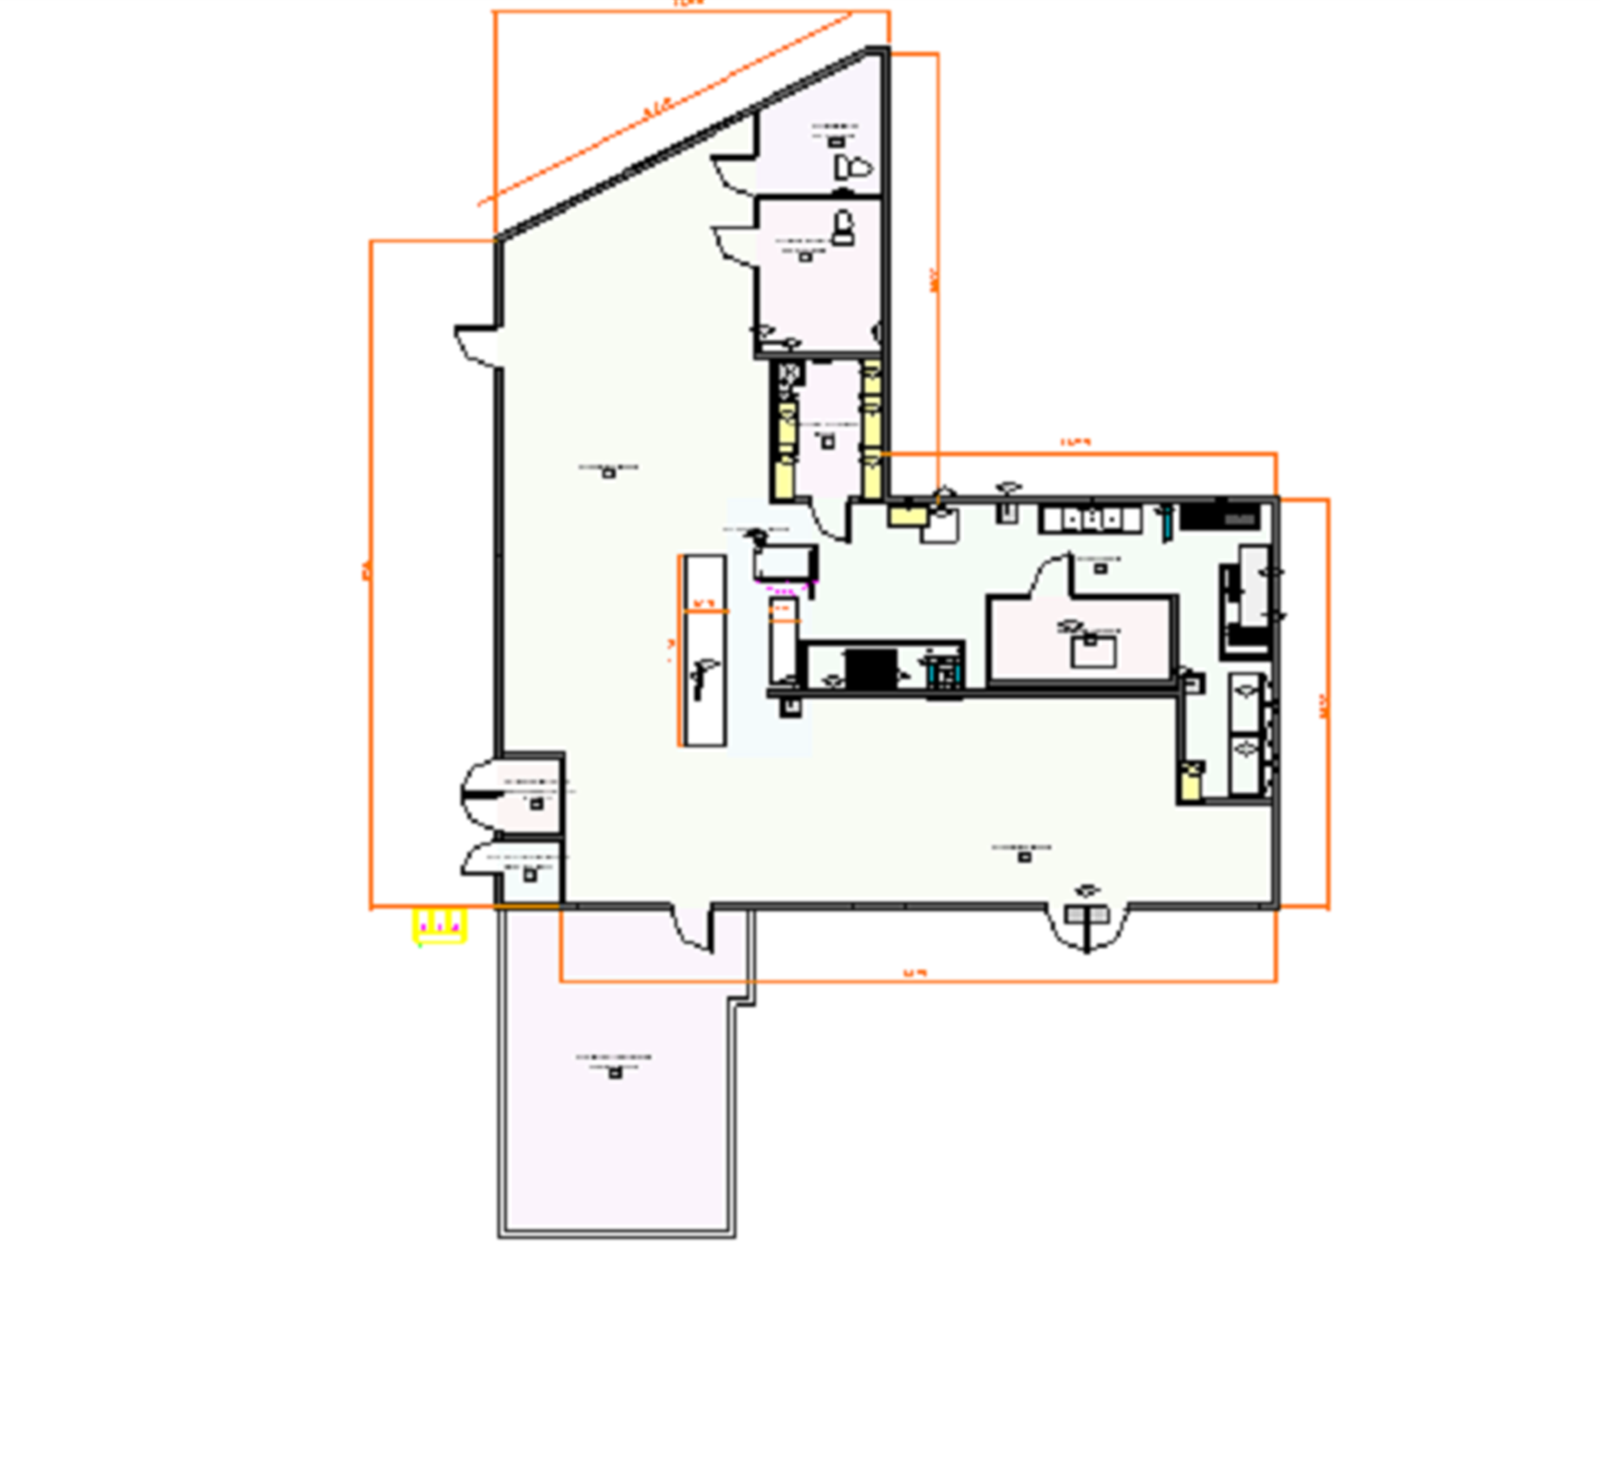
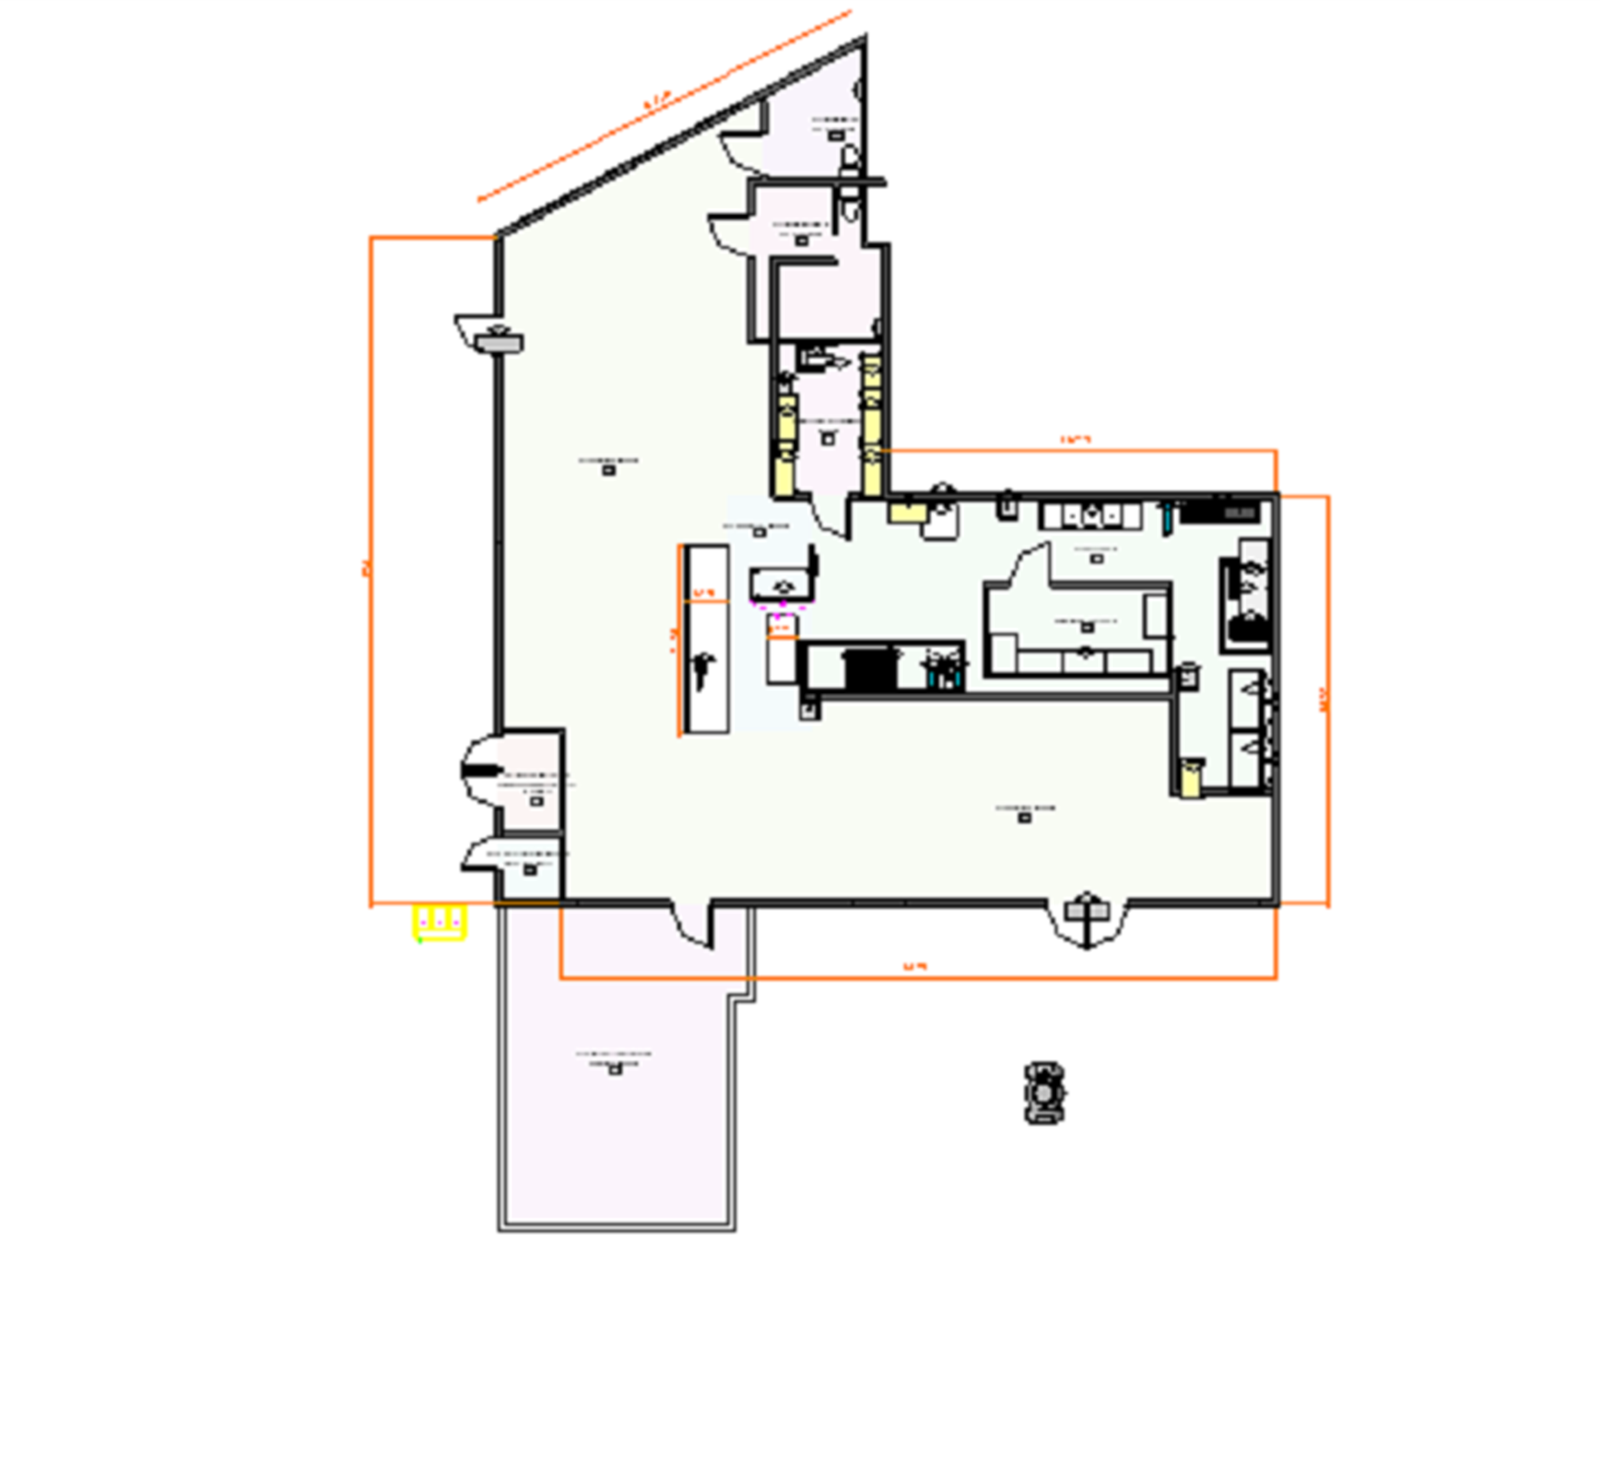
PDF-registered wall rebuild (wing jog, women block, kitchen S wall, alcove, cooler, W wall) + full audit; pdf-overlay tool
Claude-Session: https://claude.ai/code/session_01AT5CNi3qgpiabrZMiVCgn9

diff --git a/revit/tools/pdf-overlay.py b/revit/tools/pdf-overlay.py
@@ -1,0 +1,66 @@
+"""Register the PDF Equipment Plan line work to model feet, overlay with the live model walls, and
+report PDF wall-like lines that have no model wall nearby.  Usage: python.exe tools/pdf-overlay.py [walls.json]"""
+import sys, os, json, math, urllib.request
+here = os.path.dirname(os.path.abspath(__file__))
+sys.path.insert(0, os.path.join(here, 'pylib'))
+from PIL import Image, ImageDraw   # PyMuPDF bundles no PIL; install below if missing
+data = json.load(open(os.path.join(here, '..', 'reference', 'equipment-plan-lines.json')))
+S = data['pt_per_ft']
+segs = data['segments_pt']
+# --- registration: longest horizontal segment near the bottom of the plan = the 52'-7" S wall (52.58 ft = 946.5 pt)
+def L(s): return math.hypot(s[2]-s[0], s[3]-s[1])
+horiz = [s for s in segs if abs(s[3]-s[1]) < 0.5 and 940 < L(s) < 953]
+vert = [s for s in segs if abs(s[2]-s[0]) < 0.5 and 536 < L(s) < 548]   # 30'-1" = 541.5 pt
+print('candidates 52-7:', [(round(min(s[0],s[2])), round(s[1]), round(L(s)/S,2)) for s in horiz])
+print('candidates 30-1:', [(round(s[0]), round(min(s[1],s[3])), round(L(s)/S,2)) for s in vert])
+if not horiz:
+    sys.exit('no S wall candidate')
+sw = max(horiz, key=lambda s: s[1])          # lowest on the sheet (largest y) among candidates
+X0 = min(sw[0], sw[2])
+# Y from the 30-1 east wall (its top = y 30.083); the 52-7 line is the dimension line, 6 ft below the wall
+Y0 = (min(vert[0][1], vert[0][3]) + 30.083 * S) if vert else sw[1]
+def to_ft(x, y): return (11 + (x - X0) / S, (Y0 - y) / S)
+print('origin pt', X0, Y0)
+# --- model walls
+walls_file = sys.argv[1] if len(sys.argv) > 1 else None
+if walls_file:
+    walls = json.load(open(walls_file))['walls']
+else:
+    walls = json.load(urllib.request.urlopen('http://localhost:48884/onetake-v1/walls', timeout=120))['walls']
+walls = [w for w in walls if -5 <= w['start'][0] <= 70 and -30 <= w['start'][1] <= 70]
+# --- overlay image
+X_MIN, X_MAX, Y_MIN, Y_MAX, PX = -4, 68, -28, 66, 16
+W, H = int((X_MAX-X_MIN)*PX), int((Y_MAX-Y_MIN)*PX)
+im = Image.new('RGB', (W, H), 'white'); dr = ImageDraw.Draw(im)
+def P(x, y): return ((x-X_MIN)*PX, (Y_MAX-y)*PX)
+ft_segs = []
+for s in segs:
+    a = to_ft(s[0], s[1]); b = to_ft(s[2], s[3])
+    if not (X_MIN-2 <= a[0] <= X_MAX+2 and Y_MIN-2 <= a[1] <= Y_MAX+2): continue
+    ft_segs.append((a, b, L(s)/S))
+    dr.line([P(*a), P(*b)], fill=(120,120,120), width=1)
+for w in walls:
+    col = (220,0,0) if 'Generic' in w['type'] else (0,90,220)
+    dr.line([P(*w['start']), P(*w['end'])], fill=col, width=3)
+for x in range(0, 70, 10):
+    dr.line([P(x, Y_MIN), P(x, Y_MAX)], fill=(230,230,230)); dr.text((P(x, Y_MAX)[0]+2, 2), str(x), fill=(0,0,0))
+for y in range(-20, 70, 10):
+    dr.line([P(X_MIN, y), P(X_MAX, y)], fill=(230,230,230)); dr.text((2, P(0, y)[1]), str(y), fill=(0,0,0))
+out = os.path.join(here, '..', 'progress', 'pdf-vs-model-overlay.png'); im.save(out); print('overlay', out)
+# --- gaps: long PDF segments (>= 2.5 ft, axis-aligned or diagonal) with no model wall within 0.35 ft (both endpoints)
+def dist_pt_seg(p, a, b):
+    ax, ay = a; bx, by = b; px, py = p
+    dx, dy = bx-ax, by-ay; l2 = dx*dx+dy*dy
+    t = 0 if l2 == 0 else max(0, min(1, ((px-ax)*dx+(py-ay)*dy)/l2))
+    return math.hypot(px-(ax+t*dx), py-(ay+t*dy))
+def near_wall(a, b):
+    for w in walls:
+        if dist_pt_seg(a, w['start'], w['end']) < 0.45 and dist_pt_seg(b, w['start'], w['end']) < 0.45:
+            return True
+    return False
+missing = [(a, b, l) for a, b, l in ft_segs if l >= 2.5 and not near_wall(a, b)]
+missing.sort(key=lambda t: -t[2])
+print('PDF lines >=2.5ft with no model wall:', len(missing))
+for a, b, l in missing[:80]:
+    print('  (%.1f,%.1f)-(%.1f,%.1f) %.1f ft' % (a[0], a[1], b[0], b[1], l))
+json.dump({'origin_pt': [X0, Y0], 'missing': [[a, b, l] for a, b, l in missing]}, open(os.path.join(here, '..', 'progress', 'pdf-gaps.json'), 'w'))

diff --git a/revit/OneTake.extension/dev_scripts/reseat_tags.py b/revit/OneTake.extension/dev_scripts/reseat_tags.py
@@ -1,0 +1,23 @@
+# move every IndependentTag in the view whose host is in args.ids to host-bbox-center + (0, dy)
+from Autodesk.Revit.DB import IndependentTag, View
+view = [v for v in FilteredElementCollector(doc).OfClass(View) if not v.IsTemplate and v.Name == args.get('view', 'Proposed Floor Plan')][0]
+want = set(long(i) for i in args.get('ids', []))
+dy = float(args.get('dy', 0.9))
+moved = 0
+t = Transaction(doc, 'OneTake: reseat tags'); _prep(t); t.Start()
+for tg in FilteredElementCollector(doc, view.Id).OfClass(IndependentTag):
+    try:
+        hosts = [r.ElementId.Value for r in tg.GetTaggedReferences()]
+    except Exception:
+        continue
+    if not hosts or hosts[0] not in want:
+        continue
+    el = doc.GetElement(ElementId(hosts[0]))
+    bb = el.get_BoundingBox(None)
+    if bb is None:
+        continue
+    c = (bb.Min + bb.Max) * 0.5
+    tg.TagHeadPosition = XYZ(c.X, c.Y + dy, tg.TagHeadPosition.Z)
+    moved += 1
+t.Commit()
+result = {'moved': moved}

diff --git a/revit/OneTake.extension/dev_scripts/audit_doors.py b/revit/OneTake.extension/dev_scripts/audit_doors.py
@@ -1,0 +1,14 @@
+from Autodesk.Revit.DB import BuiltInCategory, FamilyInstance
+out = []
+for d in FilteredElementCollector(doc).OfCategory(BuiltInCategory.OST_Doors).WhereElementIsNotElementType():
+    try:
+        loc = d.Location
+        if loc is None or not hasattr(loc, 'Point'): continue
+        p = loc.Point
+        if not (-5 < p.X < 70 and -30 < p.Y < 70): continue
+        out.append({'id': d.Id.Value, 'xy': [round(p.X, 1), round(p.Y, 1)], 'facing': [round(d.FacingOrientation.X), round(d.FacingOrientation.Y)],
+                    'hand': [round(d.HandOrientation.X), round(d.HandOrientation.Y)], 'host': d.Host.Id.Value if d.Host else None,
+                    'type': d.Symbol.get_Parameter(__import__('Autodesk').Revit.DB.BuiltInParameter.SYMBOL_NAME_PARAM).AsString()})
+    except Exception as ex:
+        out.append({'id': d.Id.Value, 'error': str(ex)})
+result = sorted(out, key=lambda r: (r.get('xy') or [0,0])[1])

diff --git a/revit/progress/PROGRESS.md b/revit/progress/PROGRESS.md
@@ -1,6 +1,6 @@
 # Revit / OneTake — PROGRESS (read this first)
 
-<!-- auto --> **Last checkpoint:** 2026-08-18 02:19:12 | Revit: up, 'Pho Hung El cajon REV-1', 313 walls, schedule 30 rows | git claude/trusting-thompson-232391@f5686d8, 5 uncommitted
+<!-- auto --> **Last checkpoint:** 2026-08-18 02:29:26 | Revit: up, 'Pho Hung El cajon REV-1', 315 walls, schedule 32 rows | git claude/trusting-thompson-232391@f7b683a, 12 uncommitted
 
 This file is the single "where did we leave off" note. The header line above is
 rewritten by `tools/checkpoint.ps1`; the sections below are edited by hand (or by
@@ -9,6 +9,7 @@ Claude at the end of a session). Machine snapshot lives next to it in
 append-only history in `log.md`.
 
 ## Where we left off
+- 2026-08-18 03:10 — **PDF-line-registered rebuild + full audit.** `tools/pdf-overlay.py` registers the vector PDF (origin pt 297.4,1223.2; 18 pt/ft) to model feet, draws `progress/pdf-vs-model-overlay.png`, lists PDF lines w/o model wall (`progress/pdf-gaps.json`). Walls corrected: wing E wall jogs to x 33.25 above y 48.5 (walls 4983953/4983954), women block y 41.5/47.35/53.15 w/ chase 24.9-26.6 (4983947-4983952), men W 25.8 (4983949), diagonal end (33.25,63.7), kitchen S wall y 15.25 x 28.6-56.15, alcove x 56.15/y 8.25, cooler 42.2-55.8 x 16.9-23.5 door .8, W wall segs 12.75/26.5/40.4/43.4, rooms N wall 12.75. Doors 4983956 (women) 4983957 (men). Items 04/29 re-placed (4984121/4984122). Audit: 29 schedule rows, 35 tags reseated, all doors swing/hinge per pdf, rooms valid (women 93, men 57). Dims 52-7/49-3/30-1/28-10/33-1/30-7 present. Saved REV-1.
 - 2026-08-18 02:30 — **Vector PDF acquired**: `revit/reference/pho-hung-el-cajon-plans.pdf` (8 sheets; Equipment Plan = page index 3). `tools/pdf-extract.py` (run with pyRevit CPython, PyMuPDF in tools/pylib) renders it (`reference/equipment-plan.png`, 10368x6912) and dumps 4748 line segments + 703 words to `reference/equipment-plan-lines.json` (PDF points; 1/4"=1ft -> 18 pt/ft). NEXT: locate the plan origin in that file, convert to feet, and overlay/diff against the model walls exactly (no more screenshot guessing).
 - 2026-08-18 02:20 — Restroom block reshaped to pdf: women W wall 4983939 (24.9, 40.7-52.6) w/ door 4983940 (hinge 47.7, swings W); men W wall 4983935 (25.6, 52.6-59.12) w/ door 4983941 (hinge 53.8); men S wall 4978051 (24.9-34.75 @ 52.6); vestibule/alcove partitions 4983936 (31.1, 49.4-52.6) + 4983937 (29.6-34.75 @ 46.6); women WC in alcove (32.6,50.5) facing S. Saved.
 - 2026-08-18 02:00 — **Curtain walls replaced by solid Generic 8" walls + Fixed2 windows** (S: 4981922 w/ windows 12-19.1, 21.9-32.6, 36.2-46.7, 52.5-62.5; W: 4981923/4981924 w/ 13.9 & 6.45 ft windows; diagonal 4981925 w/ two 9 ft windows). S doors = Single-Glass 36x80 at 20.5 (hinge W) + pair 46.7-52.7 (hinges outer), all swing out; air curtain 28 = 4981953. All door swings/hinges + toilets set per pdf (dev_scripts/facing.py). Added: stub wall 4981977 (29.4, 22.9-26.3), 2 electrical panels, 5 floor drains/sinks. **Dimensions in view read like the pdf**: 52-7, 49-3, 30-1, 28-10, 33-1, 30-7 (centerline refs via dev_scripts/dims.py / dims_rp.py / dim_diag.py) + counter 3 & 14, kitchen counter 2-1. Model saved (REV-1). Real view export: `progress/views/proposed-floor-plan.png`.

diff --git a/revit/progress/log.md b/revit/progress/log.md
@@ -73,3 +73,10 @@
 - 2026-08-18 02:01:18 | revit=up 'Pho Hung El cajon REV-1' walls=313 sched_rows=30 | git claude/trusting-thompson-232391@f5686d8 dirty=3
 - 2026-08-18 02:17:41 | revit=up 'Pho Hung El cajon REV-1' walls=313 sched_rows=30 | git claude/trusting-thompson-232391@f5686d8 dirty=4
 - 2026-08-18 02:19:12 | revit=up 'Pho Hung El cajon REV-1' walls=313 sched_rows=30 | git claude/trusting-thompson-232391@f5686d8 dirty=5
+- 2026-08-18 02:19:45 | revit=up 'Pho Hung El cajon REV-1' walls=313 sched_rows=30 | git claude/trusting-thompson-232391@f7b683a dirty=0
+- 2026-08-18 02:19:46 | revit=up 'Pho Hung El cajon REV-1' walls=313 sched_rows=30 | git claude/trusting-thompson-232391@f7b683a dirty=3
+- 2026-08-18 02:21:17 | revit=up 'Pho Hung El cajon REV-1' walls=313 sched_rows=30 | git claude/trusting-thompson-232391@f7b683a dirty=6
+- 2026-08-18 02:26:56 | revit=up 'Pho Hung El cajon REV-1' walls=315 sched_rows=30 | git claude/trusting-thompson-232391@f7b683a dirty=7
+- 2026-08-18 02:28:01 | revit=up 'Pho Hung El cajon REV-1' walls=315 sched_rows=32 | git claude/trusting-thompson-232391@f7b683a dirty=9
+- 2026-08-18 02:28:32 | revit=up 'Pho Hung El cajon REV-1' walls=315 sched_rows=32 | git claude/trusting-thompson-232391@f7b683a dirty=10
+- 2026-08-18 02:29:03 | revit=up 'Pho Hung El cajon REV-1' walls=315 sched_rows=32 | git claude/trusting-thompson-232391@f7b683a dirty=12
